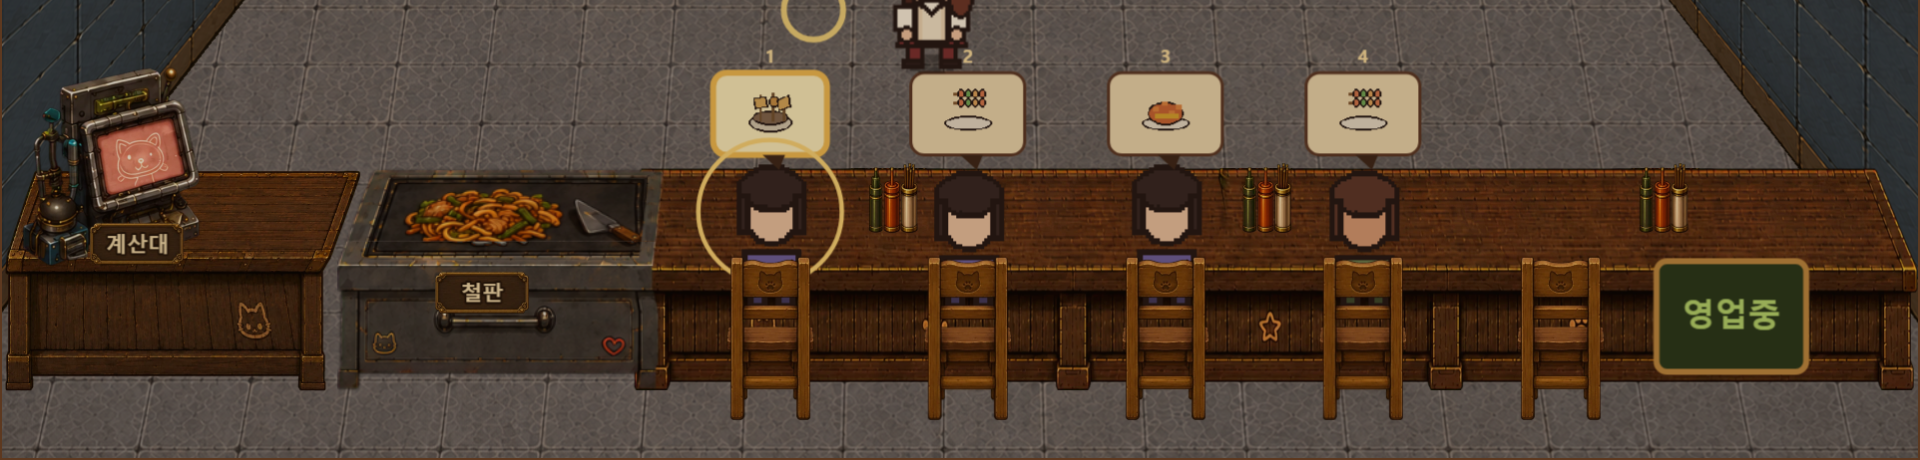
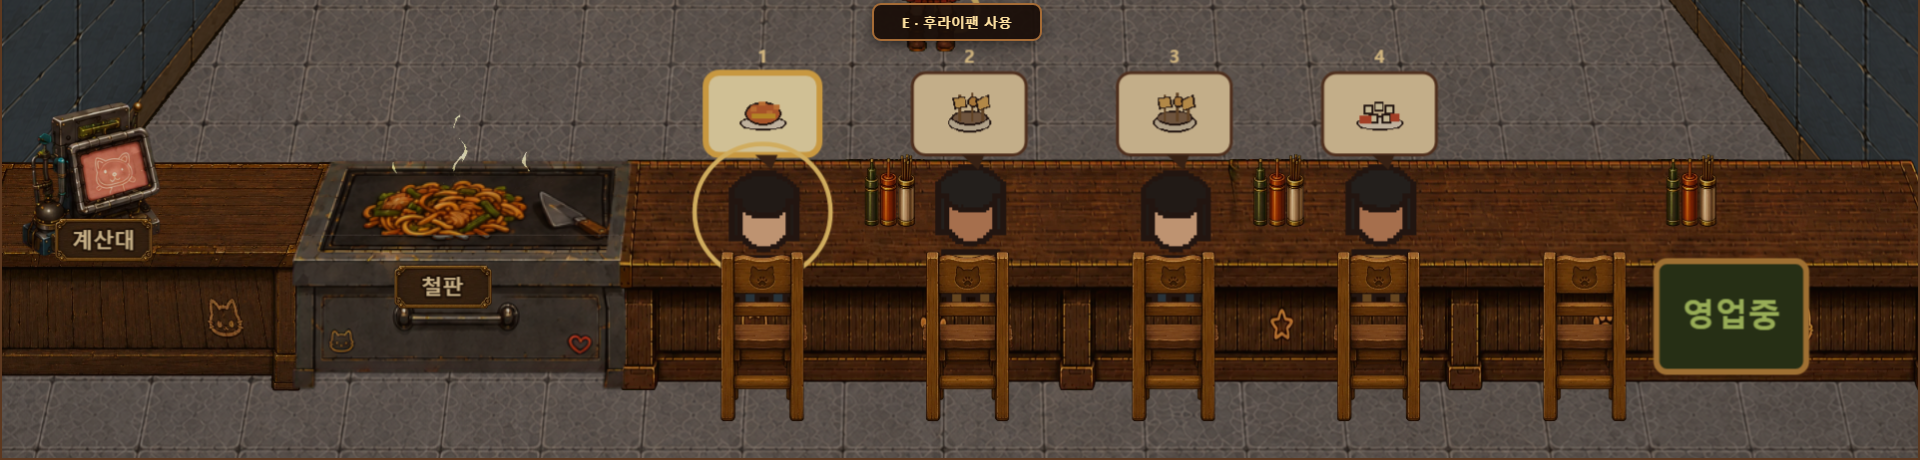
카운터 조정 2차

diff --git a/counter.js b/counter.js
@@ -60,21 +60,61 @@ const COUNTER_ASSETS = [
 
 const COUNTER_GROUND_Y = 1012;   // 카운터 3종이 바닥에 닿는 선
 
+/* 카운터 전체 크기 조절 (한 값으로 통째로)
+   ------------------------------------------------------------
+   아래 COUNTER_LAYOUT 은 에셋 스펙 그대로의 "설계값"입니다.
+   그 값대로 놓으면 화면 좌우 끝에 바닥이 몇 px 보여서 카운터가
+   떠 있는 것처럼 보입니다. 그래서 그룹 전체를 살짝 키웁니다.
+
+     scale   1.04  좌우 끝이 화면 밖으로 나가 잘립니다
+     anchorX 960   화면 가로 중앙 기준으로 좌우로 벌어집니다
+     groundY 1012  바닥선 고정. 위로만 커집니다
+
+   [측정] scale 1.0 일 때
+     계산대 왼쪽 끝   VIEW    3.5  → 화면 왼쪽에 4px 바닥이 보임
+     바 테이블 오른쪽 VIEW 1912.5 → 화면 오른쪽에 8px (상판은 35px) 바닥
+   scale 1.04 면 -34.8 / 1950.6 이 되어 확실히 잘려 나갑니다.
+
+   크기를 더 키우거나 줄이려면 scale 만 만지세요.
+   단, FRONT_STATIONS(논리 좌표 사본)는 이 값을 따라가야 합니다.
+   customers.js 의 좌석과 상호작용 판정은 자동으로 따라옵니다.
+   ------------------------------------------------------------ */
+const COUNTER_FIT = { scale:1.04, anchorX:960, groundY:COUNTER_GROUND_Y };
+
+const fitX    = x => COUNTER_FIT.anchorX + (x-COUNTER_FIT.anchorX)*COUNTER_FIT.scale;
+const fitY    = y => COUNTER_FIT.groundY + (y-COUNTER_FIT.groundY)*COUNTER_FIT.scale;
+const fitSize = v => v*COUNTER_FIT.scale;
+
 const COUNTER_LAYOUT = {
   // 계산대 본체 (화면 왼쪽 밖으로 잘려 나감 — 의도됨 §2-4)
   register: { x:0,   y:1013, w:363,  h:222 },
 
   // 철판. surface(애니메이션)와 front(정지)는 반드시 같은 값을 써야 합니다. (§1-3)
-  griddle:  { x:336, y:1017, w:327,  h:336 },
+  //
+  // x 는 스펙값 336 이 아니라 317 입니다.
+  // 336 으로 놓으면 계산대 앞면 오른쪽 끝(VIEW 321.5)과 15px 벌어져
+  // 사이에 바닥이 보입니다. 19 만큼 왼쪽으로 당겨 붙였습니다.
+  // (계산대 상판과는 겹치지만 §2-4 대로 의도된 겹침입니다)
+  griddle:  { x:317, y:1017, w:327,  h:336 },
 
   // 바 테이블 (화면 오른쪽 끝까지)
   barTable: { x:630, y:1012, w:1290, h:262 },
 
-  // 계산대 위 POS 세트
-  pos:      { x:14,  y:888,  w:191,  h:223 },
+  // 계산대 위 POS 세트.
+  // 스펙값(191x223)은 카운터에 비해 너무 커서 0.75 배로 줄였습니다.
+  // 줄인 만큼 왼쪽에 여백이 생겨 x 도 14 → 52 로 옮겼습니다.
+  pos:      { x:52,  y:884,  w:143,  h:167 },
 
   // 철판 김. 알파가 매우 낮아 ADD 블렌드가 필요합니다. (§3-2)
-  steam:    { x:340, y:882,  w:310,  h:140 },
+  //
+  // 스펙값 (340, 882) 은 김이 음식과 같은 높이에 깔려서 음식 사이사이에
+  // 파묻혀 보였습니다. y 를 59 올려 김이 음식 위로 피어오르게 했습니다.
+  //   김   화면 y 705 ~ 815  (음식 봉우리보다 76px 위까지)
+  //   음식 화면 y 781 ~ 855
+  // 김의 아랫단을 음식 봉우리 아래에 걸쳐 두어야 음식에서 나는 것처럼 보입니다.
+  // 너무 올리면 허공에 뜬 것처럼 끊겨 보입니다.
+  // x 329 는 김의 중심(464.7)을 음식 중심(464.7)에 맞춘 값입니다.
+  steam:    { x:329, y:823,  w:310,  h:140 },
 
   // 의자 5개 — 같은 에셋 재사용. 바닥선 1042 로 카운터(1012)보다 앞쪽입니다.
   chairSize: { w:88, h:172, y:1042 },
@@ -90,9 +130,17 @@ const COUNTER_LAYOUT = {
   plateSize: { w:94, h:46 },
   plates: [
     { id:"plate_register", x:88,  y:890, text:"계산대", zone:"register" },
-    { id:"plate_griddle",  x:434, y:937, text:"철판",   zone:"griddle"  }
+    // 철판을 19 왼쪽으로 당긴 만큼 같이 옮겼습니다. (스펙값 434)
+    { id:"plate_griddle",  x:415, y:937, text:"철판",   zone:"griddle"  }
   ]
 };
+
+// 의자 5개의 최종 중심 x (COUNTER_FIT 적용 후 VIEW 좌표).
+// customers.js 의 좌석이 이 값에서 파생됩니다. 의자를 옮기거나
+// COUNTER_FIT.scale 을 바꾸면 손님도 자동으로 따라옵니다.
+const COUNTER_CHAIR_CENTERS = COUNTER_LAYOUT.chairs.map(
+  chair => fitX(chair.x) + fitSize(COUNTER_LAYOUT.chairSize.w)/2
+);
 
 /* ------------------------------------------------------------
    2-1. 게임 판정용 논리 좌표
@@ -101,19 +149,21 @@ const COUNTER_LAYOUT = {
    게임 규칙(state.player, 준비물 배치, 프롬프트 위치)은 논리(1280x720)
    좌표를 쓰므로 같은 카운터를 논리 좌표로도 한 벌 적어 둡니다.
 
-     register  VIEW x   0~363 , 바닥선 1013 → 논리 x   0~242 , y 500~675
-     griddle   VIEW x 336~663 , 바닥선 1017 → 논리 x 224~442 , y 454~678
-     bar_table VIEW x 630~1920, 바닥선 1012 → 논리 x 420~1280, y 500~675
+   COUNTER_FIT(1.04) 적용 후의 실제 화면 위치를 논리 좌표로 옮긴 값입니다.
+
+     register  VIEW x  -38~327 , 상단 782 → 논리 x  -25~218 , y 521~675
+     griddle   VIEW x  291~631 , 상단 668 → 논리 x  194~421 , y 445~678
+     bar_table VIEW x  617~1958, 상단 740 → 논리 x  411~1305, y 493~675
 
    ix / iy 는 요리사가 서는 자리(카운터 위쪽 = 주방측)이며 손으로 맞춘 값입니다.
-   카운터를 옮기면 COUNTER_LAYOUT 과 이 표를 같이 고쳐야 합니다.
+   COUNTER_FIT.scale 이나 COUNTER_LAYOUT 을 바꾸면 이 표도 같이 고쳐야 합니다.
    (toLogic() 로 자동 파생시키는 건 다음 단계 과제입니다)
    ------------------------------------------------------------ */
 
 const FRONT_STATIONS = {
-  register:{id:"register",label:"계산대",x:0,  y:500,w:242,h:175,ix:245,iy:470,facing:"down"},
-  griddle: {id:"griddle", label:"철판",  x:224,y:454,w:218,h:224,ix:333,iy:470,facing:"down"},
-  counter: {id:"counter", label:"카운터",x:420,y:500,w:860,h:175,ix:700,iy:470,facing:"down"}
+  register:{id:"register",label:"계산대",x:0,  y:521,w:218,h:154,ix:245,iy:470,facing:"down"},
+  griddle: {id:"griddle", label:"철판",  x:194,y:445,w:227,h:233,ix:320,iy:470,facing:"down"},
+  counter: {id:"counter", label:"카운터",x:411,y:493,w:869,h:182,ix:700,iy:470,facing:"down"}
 };
 
 // 명패 글자. 다국어 대응을 위해 이미지 합성이 아니라 텍스트로 올립니다.
@@ -162,9 +212,29 @@ const COUNTER_DEPTH = {
    ------------------------------------------------------------ */
 
 const GRIDDLE_IDLE_FRAME = 0;      // §3-1 빈 철판 프레임이 없어 0번을 정지 상태로 씁니다.
-const GRIDDLE_COOK_FPS   = 9;
+
+/* 조리 루프에 쓸 프레임
+   ------------------------------------------------------------
+   8프레임 중 2 / 3 / 6 번은 뒤집기라 음식이 철판 밖으로 크게 솟구칩니다.
+   (프레임 안 음식 윗선: 0=85, 1=85, 2=60, 3=6, 4=84, 5=84, 6=55, 7=84)
+   전부 이어 붙이면 상판 위 음식 덩어리가 통째로 오르내려서 산만합니다.
+
+   그래서 평상시 루프는 음식 높이가 84~85 로 거의 같은 프레임만 씁니다.
+   → 지글거리는 느낌만 남고 덩어리가 튀지 않습니다.
+
+   뒤집기는 따로 빼 뒀습니다. 나중에 실제 조리 이벤트가 붙으면
+   counterPlayGriddleToss() 로 한 번씩 섞어 주세요.
+   ------------------------------------------------------------ */
+const GRIDDLE_COOK_FRAMES = [0,1,4,5,7];
+const GRIDDLE_TOSS_FRAMES = [2,6,3,6,2];
+const GRIDDLE_COOK_FPS   = 7;
+const GRIDDLE_TOSS_FPS   = 12;
+
 const STEAM_FPS          = 10;
-const STEAM_FADE_MS      = 200;    // 김이 켜지고 꺼지는 시간
+const STEAM_FADE_MS      = 200;
+// 김은 항상 나옵니다. 조리 중일 때만 조금 진해집니다.
+const STEAM_ALPHA_IDLE   = 0.70;
+const STEAM_ALPHA_COOK   = 1.00;
 const COOK_SWITCH_HOLD   = 0.20;   // 경계에서 깜빡이지 않도록 0.2초 완충 (§4-2)
 
 const POS_PULSE_FPS      = 10;
@@ -181,18 +251,32 @@ const COUNTER_FLOAT = {
   activeScale: 1.03
 };
 
-/* 상호작용 판정 영역 (VIEW 좌표).
-   요리사는 카운터 위쪽(주방측)에서 접근합니다. 아래쪽이 아닙니다. (§4-2)
-   요리사 이동 범위는 game.js WALK_BOUNDS = 논리 235~1030 / 410~486
-   → VIEW 로는 x 352~1545, y 615~729 입니다. 그 아래쪽 띠만 잡습니다.
+/* 상호작용 판정
+   ------------------------------------------------------------
+   처음에는 넓은 사각형이었는데, 카운터 앞을 지나가기만 해도 철판이
+   달아올라 산만했습니다. 그래서 주방 집기와 같은 방식으로 바꿨습니다.
 
-   요리사가 갈 수 있는 왼쪽 끝이 VIEW x 352 라, 계산대(0~363)와 철판(336~663)은
-   서 있을 자리가 거의 붙어 있습니다. 두 영역이 겹치면 계산대 앞에서도 철판이
-   달아오르므로 x 412 를 경계로 딱 나눠 둡니다. */
-const COUNTER_ZONES = {
-  register: { x:338, y:655, w:74,  h:95 },
-  griddle:  { x:412, y:655, w:278, h:95 }
-};
+     주방 집기(kitchen.js) : ix / iy 에서 STATION_REACH(논리 40) 안
+     카운터              : ix / iy 에서 COUNTER_REACH(VIEW 55) 안
+
+   ix / iy 는 FRONT_STATIONS 에 있는 "요리사가 서는 자리"입니다.
+   즉 E 를 누를 수 있는 위치에 실제로 섰을 때만 켜집니다.
+
+   [반경 55 인 이유] 계산대 ix VIEW 367.5, 철판 ix VIEW 480 으로 112 밖에
+   안 떨어져 있습니다. 60 을 넘기면 두 판정이 겹쳐서 계산대 앞에서도
+   철판이 달아오릅니다.
+   ------------------------------------------------------------ */
+const COUNTER_REACH = 55;
+
+// FRONT_STATIONS 의 상호작용 지점을 VIEW 좌표로. (판정은 VIEW 로 합니다)
+function counterStandPoint(station){
+  return { x:toView(station.ix), y:toView(station.iy) };
+}
+function withinCounterReach(playerView,station){
+  if(!playerView)return false;
+  const p=counterStandPoint(station);
+  return Math.hypot(playerView.x-p.x,playerView.y-p.y)<=COUNTER_REACH;
+}
 
 
 /* ------------------------------------------------------------
@@ -260,16 +344,18 @@ function createCounter(scene){
   counter.pos=placeCounterSprite(scene,"counter_pos_set",L.pos,COUNTER_DEPTH.pos);
   counter.pos.setFrame(0);
 
+  // 김은 처음부터 계속 돕니다. 조리 중일 때만 진해집니다.
   counter.steam=placeCounterSprite(scene,"counter_steam",L.steam,COUNTER_DEPTH.steam);
-  counter.steam.setBlendMode(Phaser.BlendModes.ADD).setAlpha(0).setVisible(false);
+  counter.steam.setBlendMode(Phaser.BlendModes.ADD).setAlpha(STEAM_ALPHA_IDLE);
+  counter.steam.play("counter_steam_loop");
 
   counter.chairs=L.chairs.map(data=>{
-    const image=scene.add.image(data.x,L.chairSize.y,"counter_chair")
+    const image=scene.add.image(fitX(data.x),fitY(L.chairSize.y),"counter_chair")
       .setOrigin(0,1)
-      .setDisplaySize(L.chairSize.w,L.chairSize.h)
+      .setDisplaySize(fitSize(L.chairSize.w),fitSize(L.chairSize.h))
       .setDepth(COUNTER_DEPTH.chair)
       .setFlipX(!!data.flipX);
-    return { id:data.id, image, groundY:L.chairSize.y };
+    return { id:data.id, image, groundY:fitY(L.chairSize.y) };
   });
 
   counter.plates=L.plates.map(data=>createCounterPlate(scene,data));
@@ -282,24 +368,26 @@ function createCounter(scene){
   counter.ready=true;
 }
 
+// 배치는 전부 COUNTER_FIT 을 통과시킵니다. 설계값을 그대로 쓰지 마세요.
 function placeCounterImage(scene,key,box,depth){
-  return scene.add.image(box.x,box.y,key)
-    .setOrigin(0,1).setDisplaySize(box.w,box.h).setDepth(depth);
+  return scene.add.image(fitX(box.x),fitY(box.y),key)
+    .setOrigin(0,1).setDisplaySize(fitSize(box.w),fitSize(box.h)).setDepth(depth);
 }
 function placeCounterSprite(scene,key,box,depth){
-  return scene.add.sprite(box.x,box.y,key)
-    .setOrigin(0,1).setDisplaySize(box.w,box.h).setDepth(depth);
+  return scene.add.sprite(fitX(box.x),fitY(box.y),key)
+    .setOrigin(0,1).setDisplaySize(fitSize(box.w),fitSize(box.h)).setDepth(depth);
 }
 
 function createCounterPlate(scene,data){
-  const size=COUNTER_LAYOUT.plateSize;
-  const plate=scene.add.image(0,0,"counter_nameplate").setOrigin(0,1).setDisplaySize(size.w,size.h);
-  const label=scene.add.text(size.w/2,-size.h/2,data.text,COUNTER_LABEL_STYLE).setOrigin(.5,.5);
+  const w=fitSize(COUNTER_LAYOUT.plateSize.w),h=fitSize(COUNTER_LAYOUT.plateSize.h);
+  const baseY=fitY(data.y);
+  const plate=scene.add.image(0,0,"counter_nameplate").setOrigin(0,1).setDisplaySize(w,h);
+  const label=scene.add.text(w/2,-h/2,data.text,COUNTER_LABEL_STYLE).setOrigin(.5,.5);
   // 글자가 명패와 같이 움직여야 하므로 컨테이너로 묶습니다. (§4-3)
-  const container=scene.add.container(data.x,data.y,[plate,label]).setDepth(COUNTER_DEPTH.nameplate);
+  const container=scene.add.container(fitX(data.x),baseY,[plate,label]).setDepth(COUNTER_DEPTH.nameplate);
   return {
     id:data.id, container, plate, label, zone:data.zone,
-    baseY:data.y, phase:Math.random()*Math.PI*2,
+    baseY, phase:Math.random()*Math.PI*2,
     amp:COUNTER_FLOAT.idle.amp, freq:COUNTER_FLOAT.idle.freq,
     active:false
   };
@@ -309,8 +397,16 @@ function createCounterAnimations(scene){
   if(!scene.anims.exists("counter_griddle_cooking")){
     scene.anims.create({
       key:"counter_griddle_cooking",
-      frames:scene.anims.generateFrameNumbers("counter_griddle_surface",{start:0,end:7}),
+      frames:scene.anims.generateFrameNumbers("counter_griddle_surface",{frames:GRIDDLE_COOK_FRAMES}),
       frameRate:GRIDDLE_COOK_FPS, repeat:-1
+    });
+  }
+  // 뒤집기. 지금은 아무도 부르지 않고, 실제 조리 이벤트가 붙으면 씁니다.
+  if(!scene.anims.exists("counter_griddle_toss")){
+    scene.anims.create({
+      key:"counter_griddle_toss",
+      frames:scene.anims.generateFrameNumbers("counter_griddle_surface",{frames:GRIDDLE_TOSS_FRAMES}),
+      frameRate:GRIDDLE_TOSS_FPS, repeat:0
     });
   }
   if(!scene.anims.exists("counter_steam_loop")){
@@ -367,32 +463,36 @@ function scheduleCounterPosBlink(){
    조건을 바꾸고 싶으면 counterCookingTest 만 교체하면 됩니다.
    ------------------------------------------------------------ */
 
-let counterCookingTest = playerView =>
-  !!playerView && rectContains(COUNTER_ZONES.griddle,playerView.x,playerView.y);
+let counterCookingTest = playerView => withinCounterReach(playerView,FRONT_STATIONS.griddle);
 
 function counterSetCookingTest(fn){ counterCookingTest=fn; }
-
-function rectContains(rect,x,y){
-  return x>=rect.x && x<=rect.x+rect.w && y>=rect.y && y<=rect.y+rect.h;
-}
 
 function setCounterCooking(on){
   if(counter.cooking===on)return;
   counter.cooking=on;
   const scene=counter.scene;
-  scene.tweens.killTweensOf(counter.steam);
-  if(on){
-    counter.griddleSurface.play("counter_griddle_cooking");
-    counter.steam.setVisible(true).play("counter_steam_loop");
-    scene.tweens.add({targets:counter.steam,alpha:1,duration:STEAM_FADE_MS,ease:"Sine.easeOut"});
-  }else{
+  if(on) counter.griddleSurface.play("counter_griddle_cooking");
+  else{
     counter.griddleSurface.stop();
     counter.griddleSurface.setFrame(GRIDDLE_IDLE_FRAME);
-    scene.tweens.add({
-      targets:counter.steam,alpha:0,duration:STEAM_FADE_MS,ease:"Sine.easeIn",
-      onComplete:()=>{ counter.steam.stop(); counter.steam.setVisible(false); }
-    });
   }
+  // 김은 끄지 않고 진하기만 바꿉니다.
+  scene.tweens.killTweensOf(counter.steam);
+  scene.tweens.add({
+    targets:counter.steam,
+    alpha:on?STEAM_ALPHA_COOK:STEAM_ALPHA_IDLE,
+    duration:STEAM_FADE_MS, ease:"Sine.easeInOut"
+  });
+}
+
+// 뒤집기 1회 재생 후 조리 루프(또는 정지)로 복귀. 실제 조리 이벤트용 훅입니다.
+function counterPlayGriddleToss(){
+  if(!counter.griddleSurface)return;
+  counter.griddleSurface.play("counter_griddle_toss");
+  counter.griddleSurface.once("animationcomplete",()=>{
+    if(counter.cooking)counter.griddleSurface.play("counter_griddle_cooking");
+    else counter.griddleSurface.setFrame(GRIDDLE_IDLE_FRAME);
+  });
 }
 
 
@@ -415,7 +515,7 @@ function updateCounter(time,delta,playerView){
     if(counter.pendingCookTime>=COOK_SWITCH_HOLD){ setCounterCooking(want); counter.pendingCook=null; }
   }
 
-  counter.nearRegister=!!playerView && rectContains(COUNTER_ZONES.register,playerView.x,playerView.y);
+  counter.nearRegister=withinCounterReach(playerView,FRONT_STATIONS.register);
 
   // 명패 둥실. 진폭·주기를 부드럽게 보간하고, 위상은 누적해서 튀지 않게 합니다.
   counter.plates.forEach(p=>{
@@ -451,16 +551,21 @@ function drawCounterDebug(playerView){
   const g=counter.debugGraphics; if(!g)return;
   g.clear();
   const L=COUNTER_LAYOUT;
-  const box=(rect,color)=>{g.lineStyle(2,color,.9);g.strokeRect(rect.x,rect.y-rect.h,rect.w,rect.h);};
+  // 설계값이 아니라 COUNTER_FIT 을 통과한 실제 위치를 그립니다.
+  const box=(rect,color)=>{
+    g.lineStyle(2,color,.9);
+    g.strokeRect(fitX(rect.x),fitY(rect.y)-fitSize(rect.h),fitSize(rect.w),fitSize(rect.h));
+  };
   box(L.register,0xff8844); box(L.griddle,0xff4466); box(L.barTable,0xffcc44);
   box(L.pos,0x8888ff); box(L.steam,0x66ddff);
   L.chairs.forEach(c=>box({x:c.x,y:L.chairSize.y,w:L.chairSize.w,h:L.chairSize.h},0x66ff88));
   L.plates.forEach(p=>box({x:p.x,y:p.y,w:L.plateSize.w,h:L.plateSize.h},0xffffff));
 
-  g.lineStyle(3,0x00ff00,.95);
-  g.strokeRect(COUNTER_ZONES.griddle.x,COUNTER_ZONES.griddle.y,COUNTER_ZONES.griddle.w,COUNTER_ZONES.griddle.h);
-  g.lineStyle(3,0x00aaff,.95);
-  g.strokeRect(COUNTER_ZONES.register.x,COUNTER_ZONES.register.y,COUNTER_ZONES.register.w,COUNTER_ZONES.register.h);
+  // 상호작용 판정: ix/iy 를 중심으로 한 반경 원
+  const griddleStand=counterStandPoint(FRONT_STATIONS.griddle);
+  const registerStand=counterStandPoint(FRONT_STATIONS.register);
+  g.lineStyle(3,0x00ff00,.95); g.strokeCircle(griddleStand.x,griddleStand.y,COUNTER_REACH);
+  g.lineStyle(3,0x00aaff,.95); g.strokeCircle(registerStand.x,registerStand.y,COUNTER_REACH);
 
   g.lineStyle(2,0xffffff,1);
   g.beginPath(); g.moveTo(0,COUNTER_GROUND_Y); g.lineTo(1920,COUNTER_GROUND_Y); g.strokePath();
@@ -485,5 +590,5 @@ function bindCounterKeys(scene){
 window.counterDebug=counterDebug;
 window.counterPlayPosPulse=counterPlayPosPulse;
 window.counterSetCookingTest=counterSetCookingTest;
+window.counterPlayGriddleToss=counterPlayGriddleToss;
 window.COUNTER_LAYOUT=COUNTER_LAYOUT;
-window.COUNTER_ZONES=COUNTER_ZONES;

diff --git a/customers.js b/customers.js
@@ -23,7 +23,10 @@
    5번 의자(논리 1041)는 빈자리로 남겨 둡니다.
    ------------------------------------------------------------ */
 
-const CUSTOMER_SEATS = [513, 645, 777, 909];
+// counter.js 가 계산해 준 의자 중심(VIEW)을 논리 좌표로 옮깁니다.
+// 의자를 옮기거나 COUNTER_FIT.scale 을 바꾸면 손님도 자동으로 따라옵니다.
+// 앞 4자리만 쓰고 5번 의자는 빈자리로 남겨 둡니다.
+const CUSTOMER_SEATS = COUNTER_CHAIR_CENTERS.slice(0,4).map(x=>Math.round(toLogic(x)));
 
 // 요리사가 이 지점 가까이 와야 서빙할 수 있습니다. 손님이 그려지는
 // 위치가 아니라 "카운터 너머로 접시를 건네는 자리"입니다.
